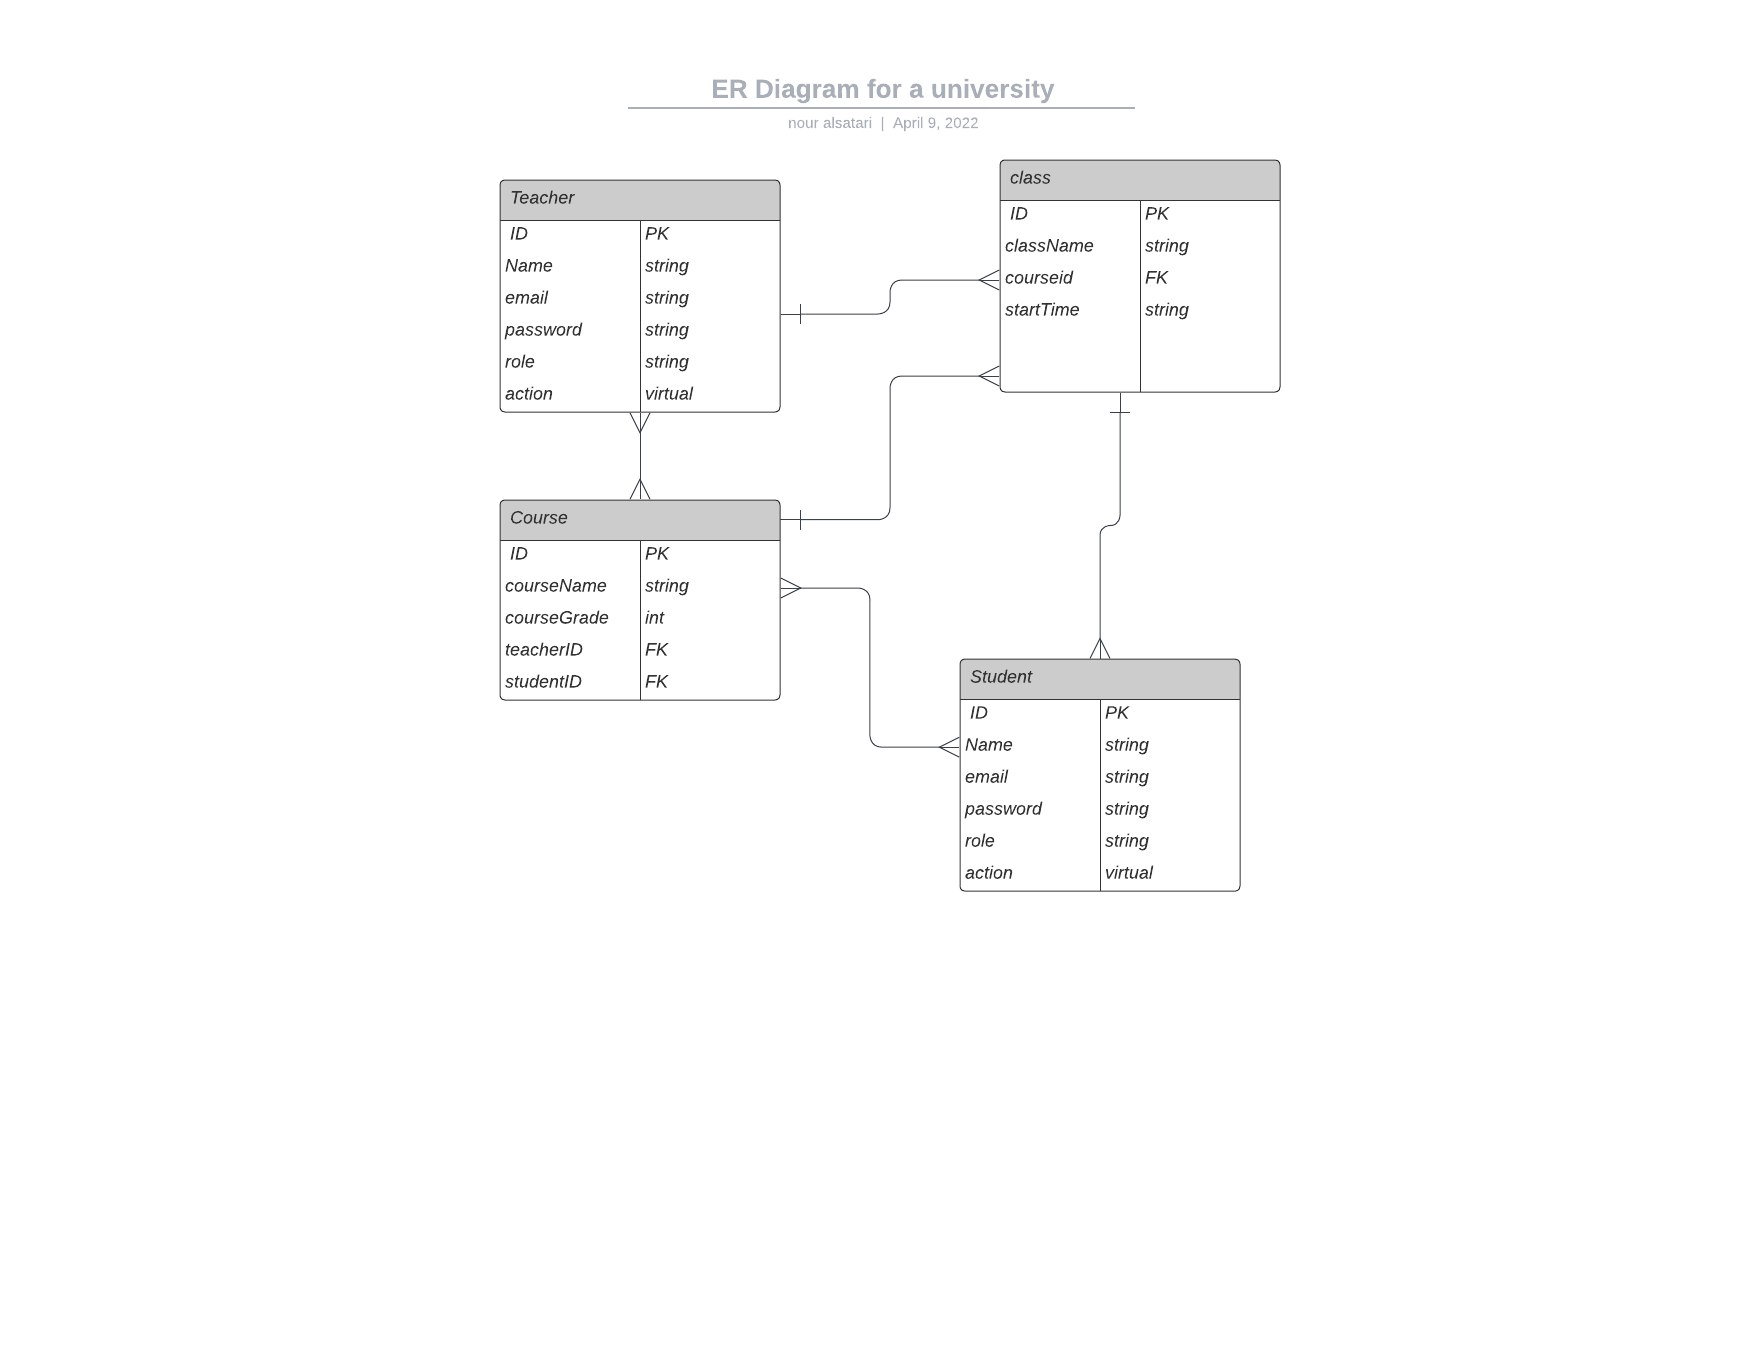
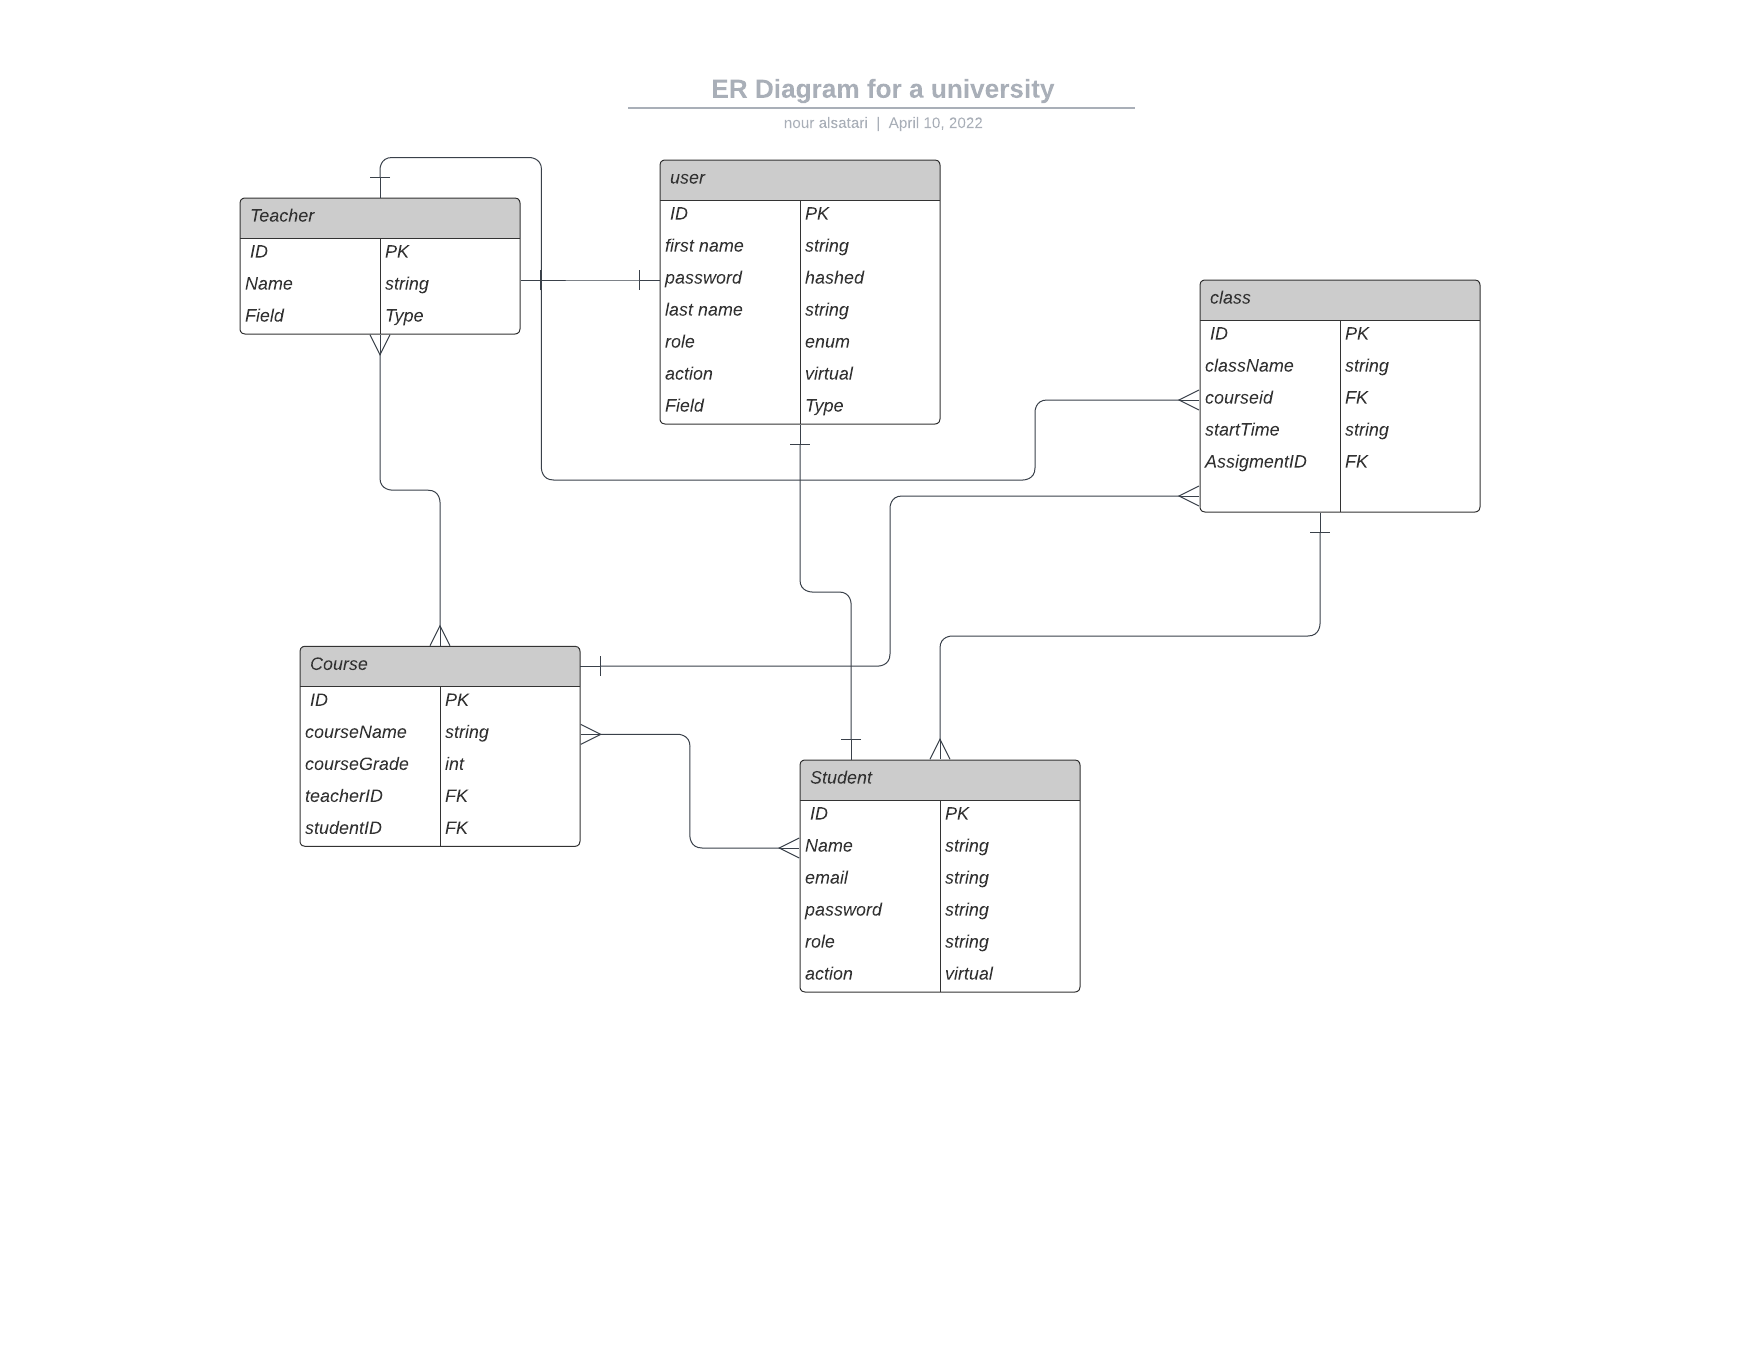
relation added

diff --git a/src/models/index.js b/src/models/index.js
@@ -3,11 +3,11 @@
 require('dotenv').config();
 const { Sequelize, DataTypes } = require('sequelize');
 
-const studentModel = require('../models/student.model');
-const teacherModel = require('../models/teacher.model');
-// const adminModel = require('../models/adminModel');
-const courseModel = require('../models/course.model');
-const classModel = require('../models/class.model');
+const studentModel = require('./student.model');
+const teacherModel = require('./teacher.model');
+const courseModel = require('./course.model');
+const classModel = require('./class.model');
+const userModel = require('./user.model');
 
 const DATABASE_URL = process.env.NODE_ENV === 'test' ? 'sqlite:memory:' : process.env.DATABASE_URL; // npm i sqlite3
 
@@ -24,15 +24,24 @@ const sequelize = new Sequelize(DATABASE_URL, sequelizeOptions);
 
 let StudentModel = studentModel(sequelize, DataTypes);
 let TeacherModel = teacherModel(sequelize, DataTypes);
-// let AdminModel = adminModel(sequelize, DataTypes);
 let CourseModel = courseModel(sequelize, DataTypes);
 let ClassModel = classModel(sequelize, DataTypes);
-
+let UserModel = userModel(sequelize, DataTypes);
 // relations between tables
 
-// StudentModel.belongsToMany(CourseModel,{foreignKey:'',sourceKey:'id'});
-// CourseModel.belongsToMany(StudentModel, {foreignKey:'',sourceKey:'id'});
-// TeacherModel.belongsToMany(CourseModel, {foreignKey:'',sourceKey:'id'});
+userModel.hasOne(StudentModel, { foreignKey: 'userId' });
+StudentModel.belongsTo(UserModel, { foreignKey: 'userId' });
+
+userModel.hasOne(TeacherModel, { foreignKey: 'userId' });
+TeacherModel.belongsTo(UserModel, { foreignKey: 'userId' });
+
+TeacherModel.hasMany(classModel,{ foreignKey:'teacherId', sourceKey : 'id' })
+classModel.belongsTo(TeacherModel ,{foreignKey:'teacherId',targetKey:'id' })
+
+StudentModel.hasMany(classModel,{ through : 'student_class'})
+classModel.belongsToMany(StudentModel,{ through : 'student_class'})
+
+
 
 
 
@@ -40,7 +49,7 @@ module.exports = {
     db: sequelize,
     studentModel: StudentModel,
     teacherModel: TeacherModel,
-    // , adminModel : adminModel(sequelize, DataTypes)
     courseModel: CourseModel,
     classModel: ClassModel,
+    userModel: UserModel
 };

diff --git a/src/models/teacher.model.js b/src/models/teacher.model.js
@@ -1,35 +1,37 @@
 'use strict';
- const Teacher =  (sequelize,DataTypes) => sequelize.define('teacher',{
-    teacherName :{
-        type: DataTypes.STRING,
-        unique: true,
-        allowNull: false,
-
+const Teacher = (sequelize, DataTypes) => sequelize.define('teacher', {
+    id: {
+        type: DataTypes.INTERGER,
+        primaryKey: true,
     },
-    email:{
+    userId: {
         type: DataTypes.INTEGER,
-        unique: true,
-        allowNull: false, //foreign key 
+        allowNull: false,
     },
-    password:{
-        len: [8,16],//lllllll
+    firstName: {
         type: DataTypes.STRING,
         allowNull: false,
 
     },
-    role:{
-        type: DataTypes.ENUM('teacher'),
-        
+  
+    
+    lastName: {
+        type: DataTypes.STRING,
+        allowNull: false,
     },
-    actions: {
-        type: DataTypes.VIRTUAL,
-        get() {
-          const acl = {
-            student: ["read", "create", "update"],
-          };
-          return acl[this.role];
-        }
+
+    gender: {
+        type: DataTypes.ENUM(['female', 'male']),
+        allowNull: false,
+    },
+    nationality: {
+        type: DataTypes.STRING
+    },
+    department: {
+        type: DataTypes.STRING,
+        allowNull: false,
     }
- })
+
+})
 
 module.exports = Teacher;

diff --git a/src/models/student.model.js b/src/models/student.model.js
@@ -1,35 +1,36 @@
-//classModel
 'use strict';
  const Student =  (sequelize,DataTypes) => sequelize.define('student',{
-    studentName :{
+    id: {
+        type: DataTypes.INTEGER,
+        primaryKey: true,
+    },
+    userId: {
+        type: DataTypes.INTEGER,
+        allowNull: false,
+    },
+    firstName :{
         type: DataTypes.STRING,
-        unique: true,
         allowNull: false,
 
     },
-    email:{
-        type: DataTypes.INTEGER,
-        unique: true,
-        allowNull: false, //foreign key 
-    },
-    password:{
-        len: [8,16],//lllllll
+    
+    lastName:{
         type: DataTypes.STRING,
         allowNull: false,
     },
-    role:{
-        type: DataTypes.ENUM('student'),
-        
+
+    gender : {
+        type : DataTypes.ENUM(['female','male']),
+        allowNull : false,
     },
-    actions: {
-        type: DataTypes.VIRTUAL,
-        get() {
-          const acl = {
-            student: ["read", "create", "update"],
-          };
-          return acl[this.role];
-        }
+    nationality : {
+        type : DataTypes.STRING
+    },
+    major : {
+        type : DataTypes.STRING,
+        allowNull : false,
     }
+  
  })
 
 module.exports = Student;

diff --git a/src/models/user.model.js b/src/models/user.model.js
@@ -1,0 +1,43 @@
+'use strict';
+const User = (sequelize, DataTypes) => sequelize.define('user', {
+    id : {
+        type: DataTypes.UUID,
+        defaultValue: DataTypes.UUIDV4,
+        primaryKey: true,
+    },
+    userName: {
+        type: DataTypes.STRING,
+        allowNull: false,
+        unique: true,
+    },
+    email: {
+        type: DataTypes.STRING,
+        unique: true,
+        allowNull: false,
+    },
+    password: {
+        type: DataTypes.STRING,
+        len: [8,16],
+        allowNull: false,
+    
+    },
+    role: {
+        type: DataTypes.ENUM('student', 'teacher', 'admin'),
+        allowNull: false,
+        defaultValue: 'student',
+    
+    },
+    actions: {
+        type: DataTypes.VIRTUAL,
+        get() {
+            const acl = {
+                student: ["read", "create"],
+                teacher: ["read", "create", "update"],
+                admin : ["read", "create", "update", "delete"]
+            };
+            return acl[this.role];
+            }
+    }
+
+});
+module.exports = User;

diff --git a/src/models/class.model.js b/src/models/class.model.js
@@ -1,15 +1,29 @@
 'use strict';
  const Class =  (sequelize,DataTypes) => sequelize.define('class',{
+    id: {
+        type: DataTypes.INTEGER,
+        primaryKey: true,
+    },
     className :{
         type: DataTypes.STRING,
         allowNull: false,
 
     },
-
+    
     courseId :{
         type: DataTypes.INTEGER,
         allowNull: false, //foreign key
-    }
+    },
+    teacherId :{
+        type: DataTypes.INTEGER,
+        allowNull: false, //foreign key   
+    
+    },
+    studentId:{
+        type: DataTypes.INTEGER,
+        allowNull: false, //foreign key
+
+    },
 
  })
 module.exports = Class;

diff --git a/src/models/course.model.js b/src/models/course.model.js
@@ -1,11 +1,16 @@
 'use strict';
  const Course =  (sequelize,DataTypes) => sequelize.define('course',{
+    id : {
+        type: DataTypes.UUID,
+        defaultValue: DataTypes.UUIDV4,
+        primaryKey: true,
+    },
     courseName :{
         type: DataTypes.STRING,
         allowNull: false,
 
     },
- 
+  
     courseGrade:{
         type: DataTypes.INTEGER,
         allowNull: false, 
@@ -20,8 +25,5 @@
         allowNull: false, //foreign key
 
     },
-    
-    
-
  })
 module.exports = Course;

diff --git a/doc/prep04.md b/doc/prep04.md
@@ -2,7 +2,7 @@
 
 ## User Stories
 
-These are the stories for our approved project [Stories](https://trello.com/invite/b/SEjEBv6I/16bc899f12c31ac9347d6690e556a151/student)
+These are the stories for our approved project [Stories](https://trello.com/invite/b/SEjEBv6I/9f8b070a0cc37ee49941456c37d47c73/student)
 
 ## Software Requirements
 [Software Requirements](requirements.md)
